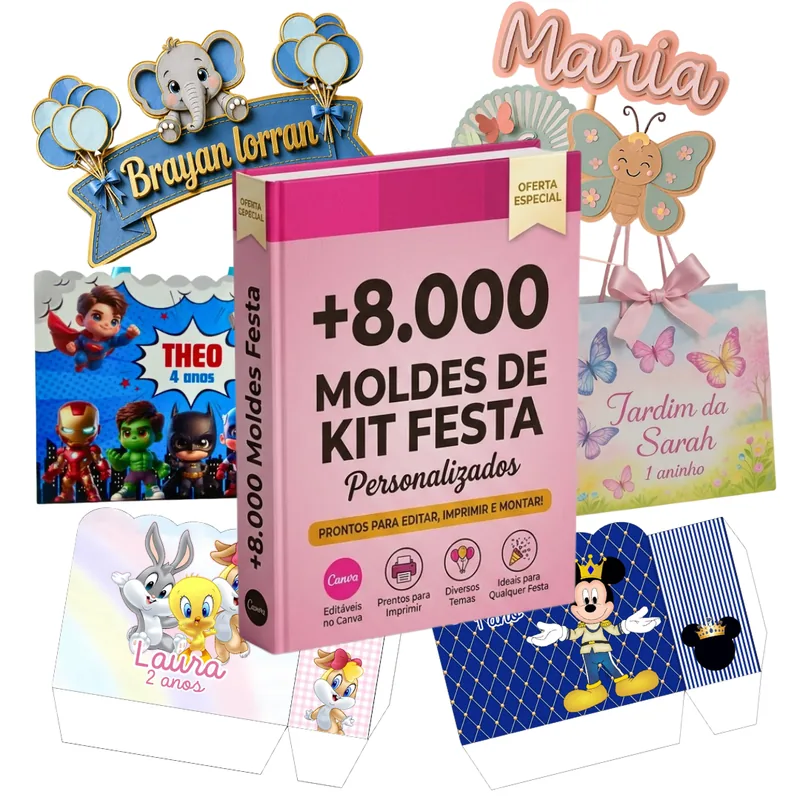
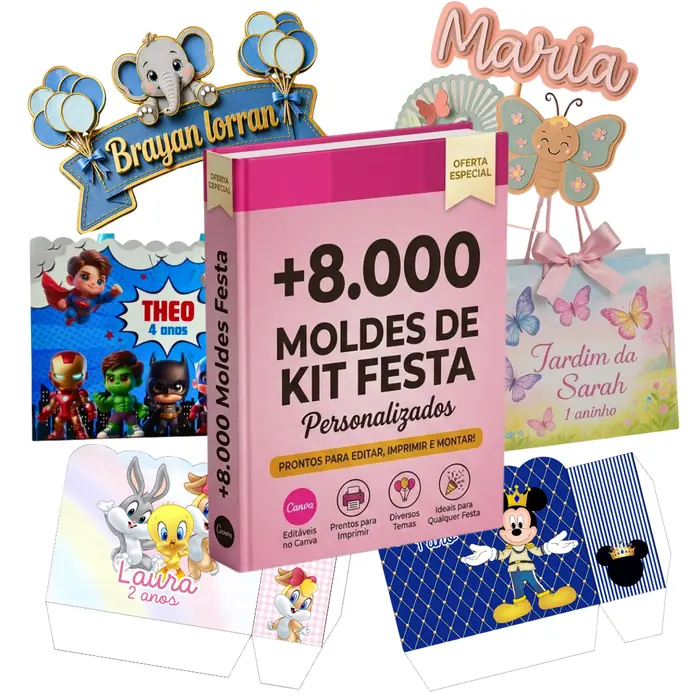
Otimizar LCP: comprimir hero (99→65KB) e adicionar cache headers
- Recomprimir hero-banner.webp com quality=75 e resize 700px
- Adicionar Cache-Control immutable para CSS, JS, fontes e JPEG
- Atualizar dimensões da imagem no HTML

diff --git a/index.html b/index.html
@@ -1066,7 +1066,7 @@ h3 { font-size: 1.125rem; font-weight: 700; }
     <h1>+8.000 Moldes de Kit Festa pra Atender Qualquer Tema que o Cliente Pedir</h1>
     <p class="sub">Moldes prontos pra editar no Canva, imprimir e entregar — sem criar nada do zero.</p>
     <div class="hero-img-wrap">
-      <img src="images/hero-banner.webp" alt="+8.000 Moldes de Kit Festa Personalizados — prontos para editar, imprimir e montar" width="800" height="800" fetchpriority="high" decoding="async">
+      <img src="images/hero-banner.webp" alt="+8.000 Moldes de Kit Festa Personalizados — prontos para editar, imprimir e montar" width="700" height="700" fetchpriority="high" decoding="async">
     </div>
     <a href="#planos" class="btn scroll-to-plans">QUERO MEUS MOLDES AGORA</a>
   </div>
